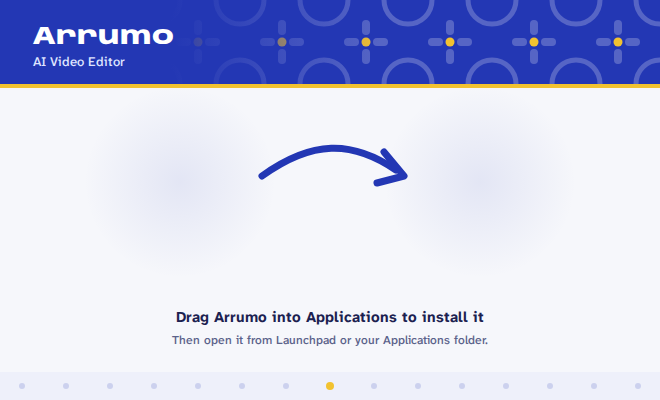
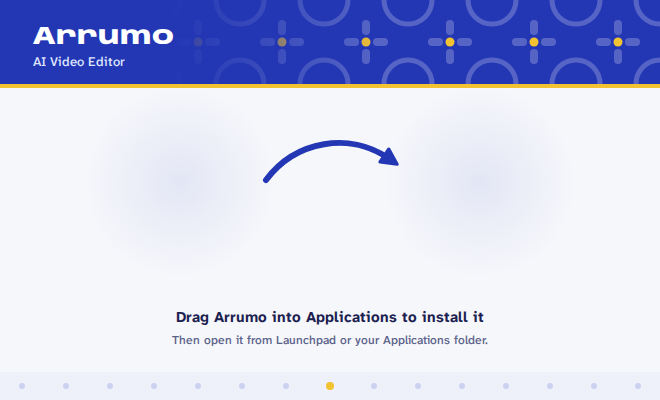
style(bundle): draw the disk image arrow as one smooth arc with a head that follows it

Changed region(s): [[0.3939, 0.33, 0.6364, 0.48]]

diff --git a/src-tauri/dmg/background.html b/src-tauri/dmg/background.html
@@ -23,6 +23,9 @@
     </pattern>
     <linearGradient id="fadeR" x1="0" x2="1"><stop offset=".45" stop-color="#2337b4"/><stop offset="1" stop-color="#2337b4" stop-opacity="0"/></linearGradient>
     <radialGradient id="glow" cx=".5" cy=".5" r=".5"><stop offset="0" stop-color="#2337b4" stop-opacity=".09"/><stop offset="1" stop-color="#2337b4" stop-opacity="0"/></radialGradient>
+    <marker id="head" viewBox="0 0 20 20" refX="7" refY="10" markerWidth="22" markerHeight="22" markerUnits="userSpaceOnUse" orient="auto">
+      <path d="M3 3 L17 10 L3 17 Z" fill="#2337b4" stroke="#2337b4" stroke-width="3" stroke-linejoin="round"/>
+    </marker>
   </defs>
   <rect width="660" height="84" fill="#2337b4"/>
   <rect width="660" height="84" fill="url(#az)"/>
@@ -32,8 +35,7 @@
   <rect y="84" width="660" height="4" fill="#f2c230"/>
   <circle cx="180" cy="182" r="96" fill="url(#glow)"/>
   <circle cx="480" cy="182" r="96" fill="url(#glow)"/>
-  <path d="M262 176 C 312 140, 352 140, 396 170" fill="none" stroke="#2337b4" stroke-width="7" stroke-linecap="round"/>
-  <path d="M384 152 L 404 176 L 377 183" fill="none" stroke="#2337b4" stroke-width="7" stroke-linecap="round" stroke-linejoin="round"/>
+  <path d="M266 180 C 296 140, 350 132, 388 158" fill="none" stroke="#2337b4" stroke-width="6" stroke-linecap="round" marker-end="url(#head)"/>
   <text class="hint" x="330" y="322" text-anchor="middle">Drag Arrumo into Applications to install it</text>
   <text class="small" x="330" y="344" text-anchor="middle">Then open it from Launchpad or your Applications folder.</text>
   <g transform="translate(0 372)">
